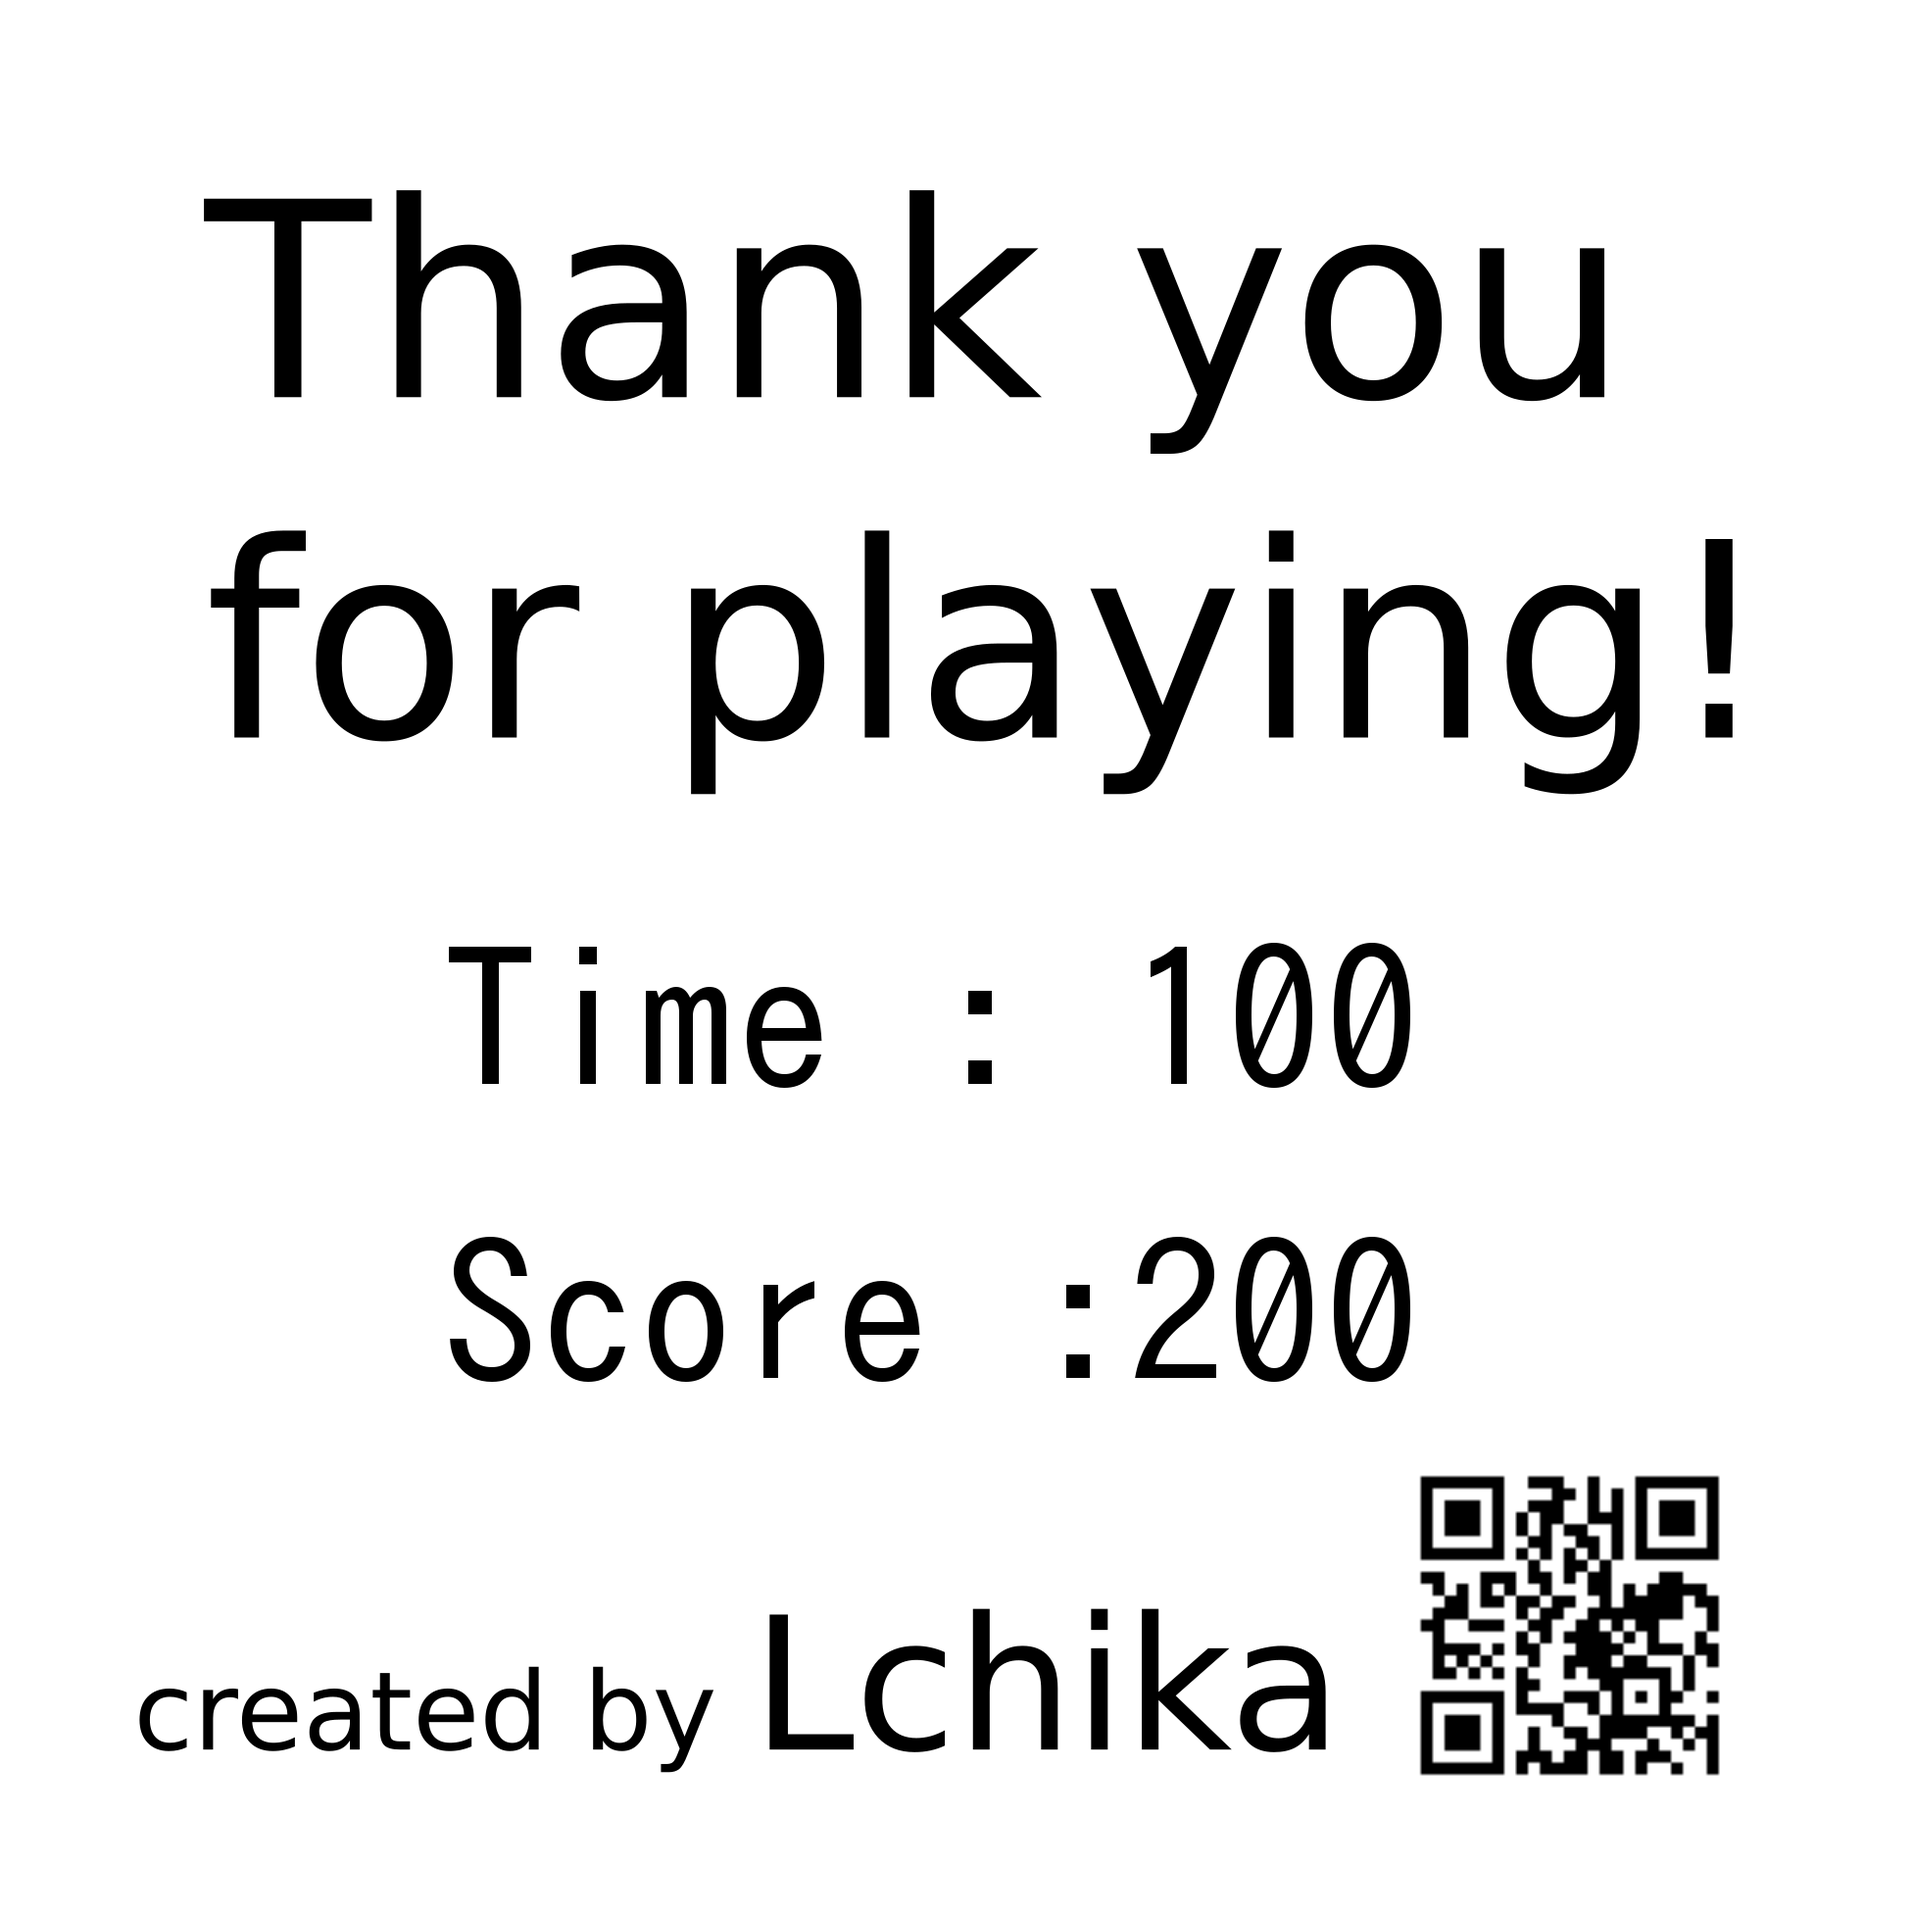
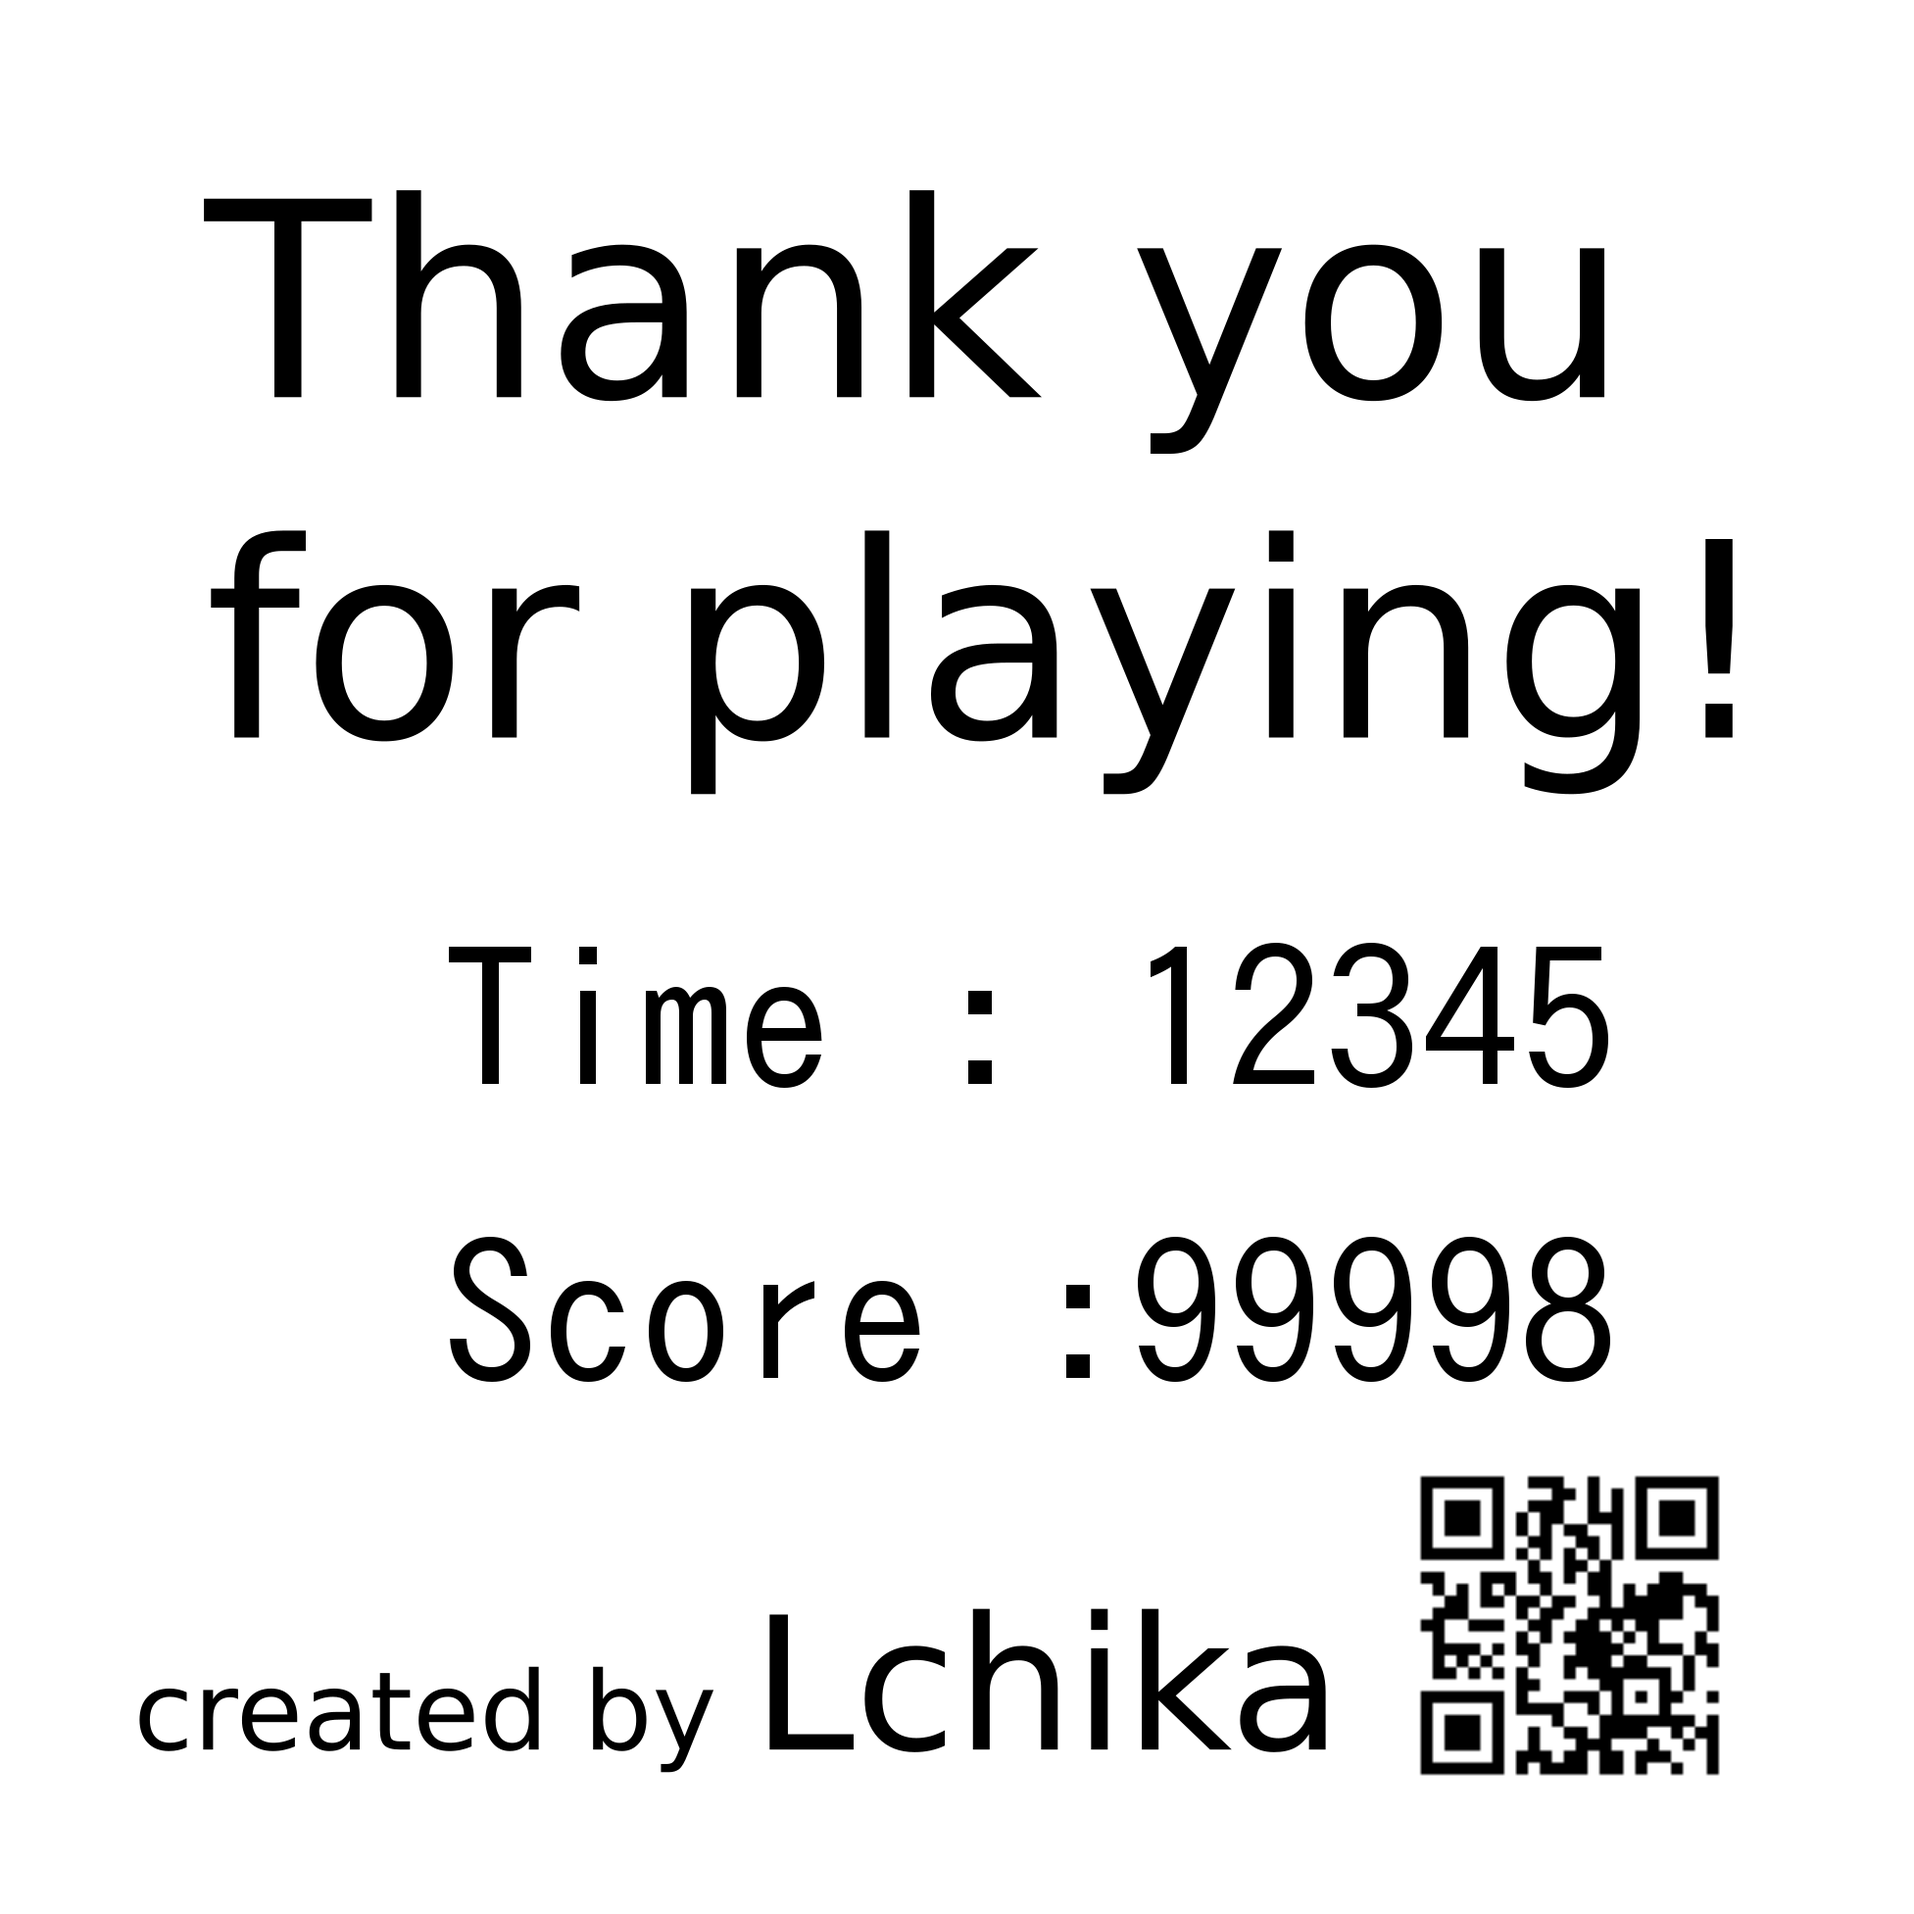
Fix: some bugs

Changed region(s): [[0.5934, 0.6247, 0.8433, 0.7184], [0.6247, 0.4685, 0.8433, 0.5934]]

diff --git a/kivy/main.py b/kivy/main.py
@@ -4,6 +4,8 @@ import threading
 #import jserial
 import inspng
 import json
+import codecs
+import time
 
 from kivy.app import App
 from kivy.core.window import Window
@@ -51,13 +53,20 @@ class MainRoot(BoxLayout):
 
     def recv_msg(self):
         comm_path = '../comm.txt'
-        while True:
-            #self.dict = self.ser.get_dict()
-            with open(comm_path) as f:
+        with codecs.open(comm_path, 'r', 'utf-8') as f:
+            #print(f.readline())
+            while True:
+                #self.dict = self.ser.get_dict()
                 self.read_data = f.readline()
-                self.dict = json.loads(self.read_data)
-            self.window2.set_print_data(self.dict)
-            self.change_disp2()
+                self.read_data.rstrip('\n')
+                try:
+                    self.dict = json.loads(self.read_data, 'utf-8')
+                    print(self.dict)
+                    self.window2.set_print_data(self.dict)
+                    self.change_disp2()
+                except:
+                    print ".",
+                    time.sleep(1)
 
 
 class MainApp(App):

diff --git a/kivy/window2.py b/kivy/window2.py
@@ -13,15 +13,15 @@ class Window2(BoxLayout):
     print_data = None
 
     def on(self):
-        print('on!')
+        print('print.')
         if self.print_data != None:
-            inspng.make_png(self.print_data['TIME'], self.print_data['SCORE'], './result.png')
+            inspng.make_png(self.print_data['score']['time'], self.print_data['score']['score'], './result.png')
             cmd = "brother_ql print -l 62 --red ./result.png"
             cmd = shlex.split(cmd)
             ret = subprocess.check_output(cmd)
  
     def off(self):
-        print('off!')
+        print('not print.')
 
     def set_print_data(self, data):
         self.print_data = data

diff --git a/flask/main.py b/flask/main.py
@@ -27,8 +27,8 @@ def handle_root():
     with urllib.request.urlopen(req) as res:
       res.read()
     with open(comm_path, mode='a') as f:
-      f.write(request.json)
+      f.write(json.dumps(request.json) + '\n')
     return 'score was sent'
 
 if __name__ == '__main__':
-  app.run()
+  app.run("0.0.0.0", debug=True)
